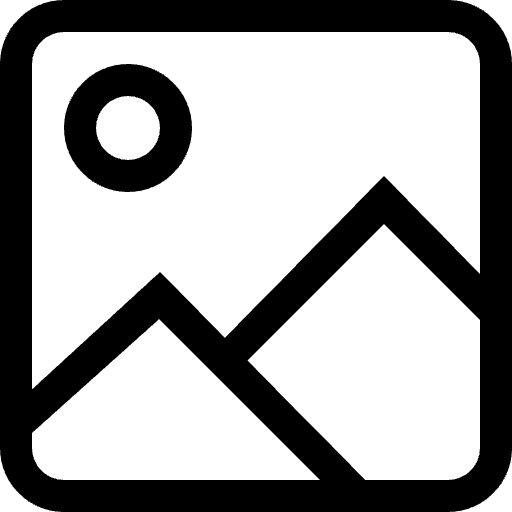
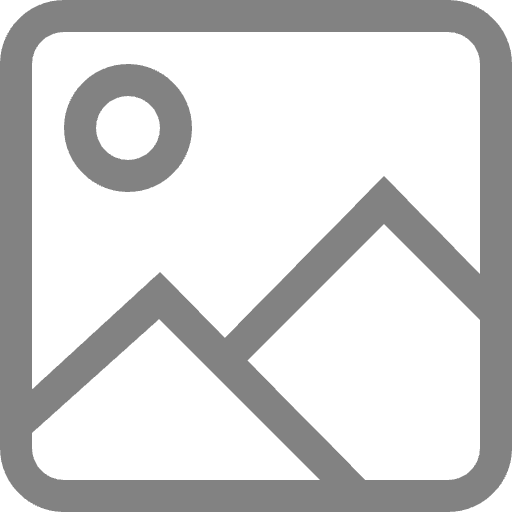
make placeholder piggy bank image transparent and make other UI fixes

diff --git a/resources/views/create-piggy-bank/pick-date/summary.blade.php b/resources/views/create-piggy-bank/pick-date/summary.blade.php
@@ -14,6 +14,7 @@
                     <!-- Product Information Section -->
                     <div class="mb-8">
                         <h2 class="text-lg font-medium text-gray-900 mb-4">{{ __('Product Details') }}</h2>
+                        <!-- This grid will only contain the basic info and image -->
                         <div class="grid grid-cols-1 md:grid-cols-2 gap-6">
                             <div class="space-y-4">
                                 <div>
@@ -24,7 +25,6 @@
                                 <div>
                                     <h3 class="text-sm font-medium text-gray-500">{{ __('Product Price') }}</h3>
                                     <p class="mt-1 text-base text-gray-900">
-                                        {{-- Using the Money object's built-in formatting --}}
                                         {{ isset($summary['pick_date_step1']['price']) ? $summary['pick_date_step1']['price']->formatTo('en_US') : '-' }}
                                     </p>
                                 </div>
@@ -32,28 +32,13 @@
                                 <div>
                                     <h3 class="text-sm font-medium text-gray-500">{{ __('Starting Amount') }}</h3>
                                     <p class="mt-1 text-base text-gray-900">
-                                        {{-- Using the Money object's built-in formatting --}}
                                         {{ isset($summary['pick_date_step1']['starting_amount']) ? $summary['pick_date_step1']['starting_amount']->formatTo('en_US') : '-' }}
                                     </p>
                                 </div>
-
-                                <div>
-                                    <h3 class="text-sm font-medium text-gray-500">{{ __('Product Link') }}</h3>
-                                    @if(isset($summary['pick_date_step1']['link']))
-                                        <a href="{{ $summary['pick_date_step1']['link'] }}" target="_blank" class="mt-1 text-base text-blue-600 hover:text-blue-800 break-all">{{ $summary['pick_date_step1']['link'] }}</a>
-                                    @else
-                                        <p class="mt-1 text-base text-gray-900">-</p>
-                                    @endif
-                                </div>
-
-                                <div>
-                                    <h3 class="text-sm font-medium text-gray-500">{{ __('Notes') }}</h3>
-                                    <p class="mt-1 text-base text-gray-900">{{ $summary['pick_date_step1']['details'] ?? '-' }}</p>
-                                </div>
                             </div>
 
-                            <div class="w-full md:w-48 mt-1">
-                                <div class="aspect-square h-32 md:aspect-auto md:h-32 relative overflow-hidden rounded-lg shadow-sm bg-gray-50">
+                            <div class="w-48 mx-auto mt-1">
+                                <div class="aspect-square h-32 md:aspect-auto md:h-32 relative overflow-hidden rounded-lg shadow-sm bg-gray-50 mx-auto">
                                     <div class="relative w-full h-full">
                                         <img
                                             src="{{ $summary['pick_date_step1']['preview']['image'] }}"
@@ -63,43 +48,57 @@
                                     </div>
                                 </div>
                             </div>
+                        </div>
 
+                        <!-- Moved outside the grid -->
+                        <div class="space-y-4 mt-6">
+                            <div>
+                                <h3 class="text-sm font-medium text-gray-500">{{ __('Product Link') }}</h3>
+                                @if(isset($summary['pick_date_step1']['link']))
+                                    <a href="{{ $summary['pick_date_step1']['link'] }}" target="_blank" class="mt-1 text-base text-blue-600 hover:text-blue-800 break-all">{{ $summary['pick_date_step1']['link'] }}</a>
+                                @else
+                                    <p class="mt-1 text-base text-gray-900">-</p>
+                                @endif
+                            </div>
+
+                            <div>
+                                <h3 class="text-sm font-medium text-gray-500">{{ __('Notes') }}</h3>
+                                <p class="mt-1 text-base text-gray-900">{{ $summary['pick_date_step1']['details'] ?? '-' }}</p>
+                            </div>
                         </div>
                     </div>
+
 
                     <!-- Savings Plan Section -->
                     <div class="mb-8">
                         <h2 class="text-lg font-medium text-gray-900 mb-4">{{ __('Savings Plan') }}</h2>
-                        <div class="grid grid-cols-1 md:grid-cols-2 gap-6">
-                            <div class="space-y-4">
-                                <div>
-                                    <h3 class="text-sm font-medium text-gray-500">{{ __('Target Date') }}</h3>
-                                    <p class="mt-1 text-base text-gray-900">{{ \Carbon\Carbon::parse($summary['pick_date_step3']['date'])->format('F j, Y') }}</p>
-                                </div>
-
-                                <div>
-                                    <h3 class="text-sm font-medium text-gray-500">{{ __('Saving Frequency') }}</h3>
-                                    <p class="mt-1 text-base text-gray-900">{{ ucfirst($summary['pick_date_step3']['selected_frequency']) }}</p>
-                                </div>
-
-                                @if($dateMessage)
-                                    <div class="bg-blue-50 border-l-4 border-blue-400 p-4">
-                                        <p class="text-blue-700">{{ $dateMessage }}</p>
-                                    </div>
-                                @endif
+                        <!-- Remove grid, use single column layout -->
+                        <div class="space-y-4">
+                            <div>
+                                <h3 class="text-sm font-medium text-gray-500">{{ __('Target Date') }}</h3>
+                                <p class="mt-1 text-base text-gray-900">{{ \Carbon\Carbon::parse($summary['pick_date_step3']['date'])->format('F j, Y') }}</p>
                             </div>
 
-                            <div class="space-y-4">
-
-                                @if(isset($summary['pick_date_step3']['calculations'][$summary['pick_date_step3']['selected_frequency']]['message']))
-                                    <div>
-                                        <h3 class="text-sm font-medium text-gray-500">{{ __('Additional Information') }}</h3>
-                                        <p class="mt-1 text-base text-gray-900">{{ $summary['pick_date_step3']['calculations'][$summary['pick_date_step3']['selected_frequency']]['message'] }}</p>
-                                    </div>
-                                @endif
+                            <div>
+                                <h3 class="text-sm font-medium text-gray-500">{{ __('Saving Frequency') }}</h3>
+                                <p class="mt-1 text-base text-gray-900">{{ ucfirst($summary['pick_date_step3']['selected_frequency']) }}</p>
                             </div>
+
+                            @if($dateMessage)
+                                <div class="bg-blue-50 border-l-4 border-blue-400 p-4">
+                                    <p class="text-blue-700">{{ $dateMessage }}</p>
+                                </div>
+                            @endif
+
+                            @if(isset($summary['pick_date_step3']['calculations'][$summary['pick_date_step3']['selected_frequency']]['message']))
+                                <div>
+                                    <h3 class="text-sm font-medium text-gray-500">{{ __('Additional Information') }}</h3>
+                                    <p class="mt-1 text-base text-gray-900">{{ $summary['pick_date_step3']['calculations'][$summary['pick_date_step3']['selected_frequency']]['message'] }}</p>
+                                </div>
+                            @endif
                         </div>
                     </div>
+
 
                     <!-- Financial Summary Section -->
                     <div class="mb-8">
